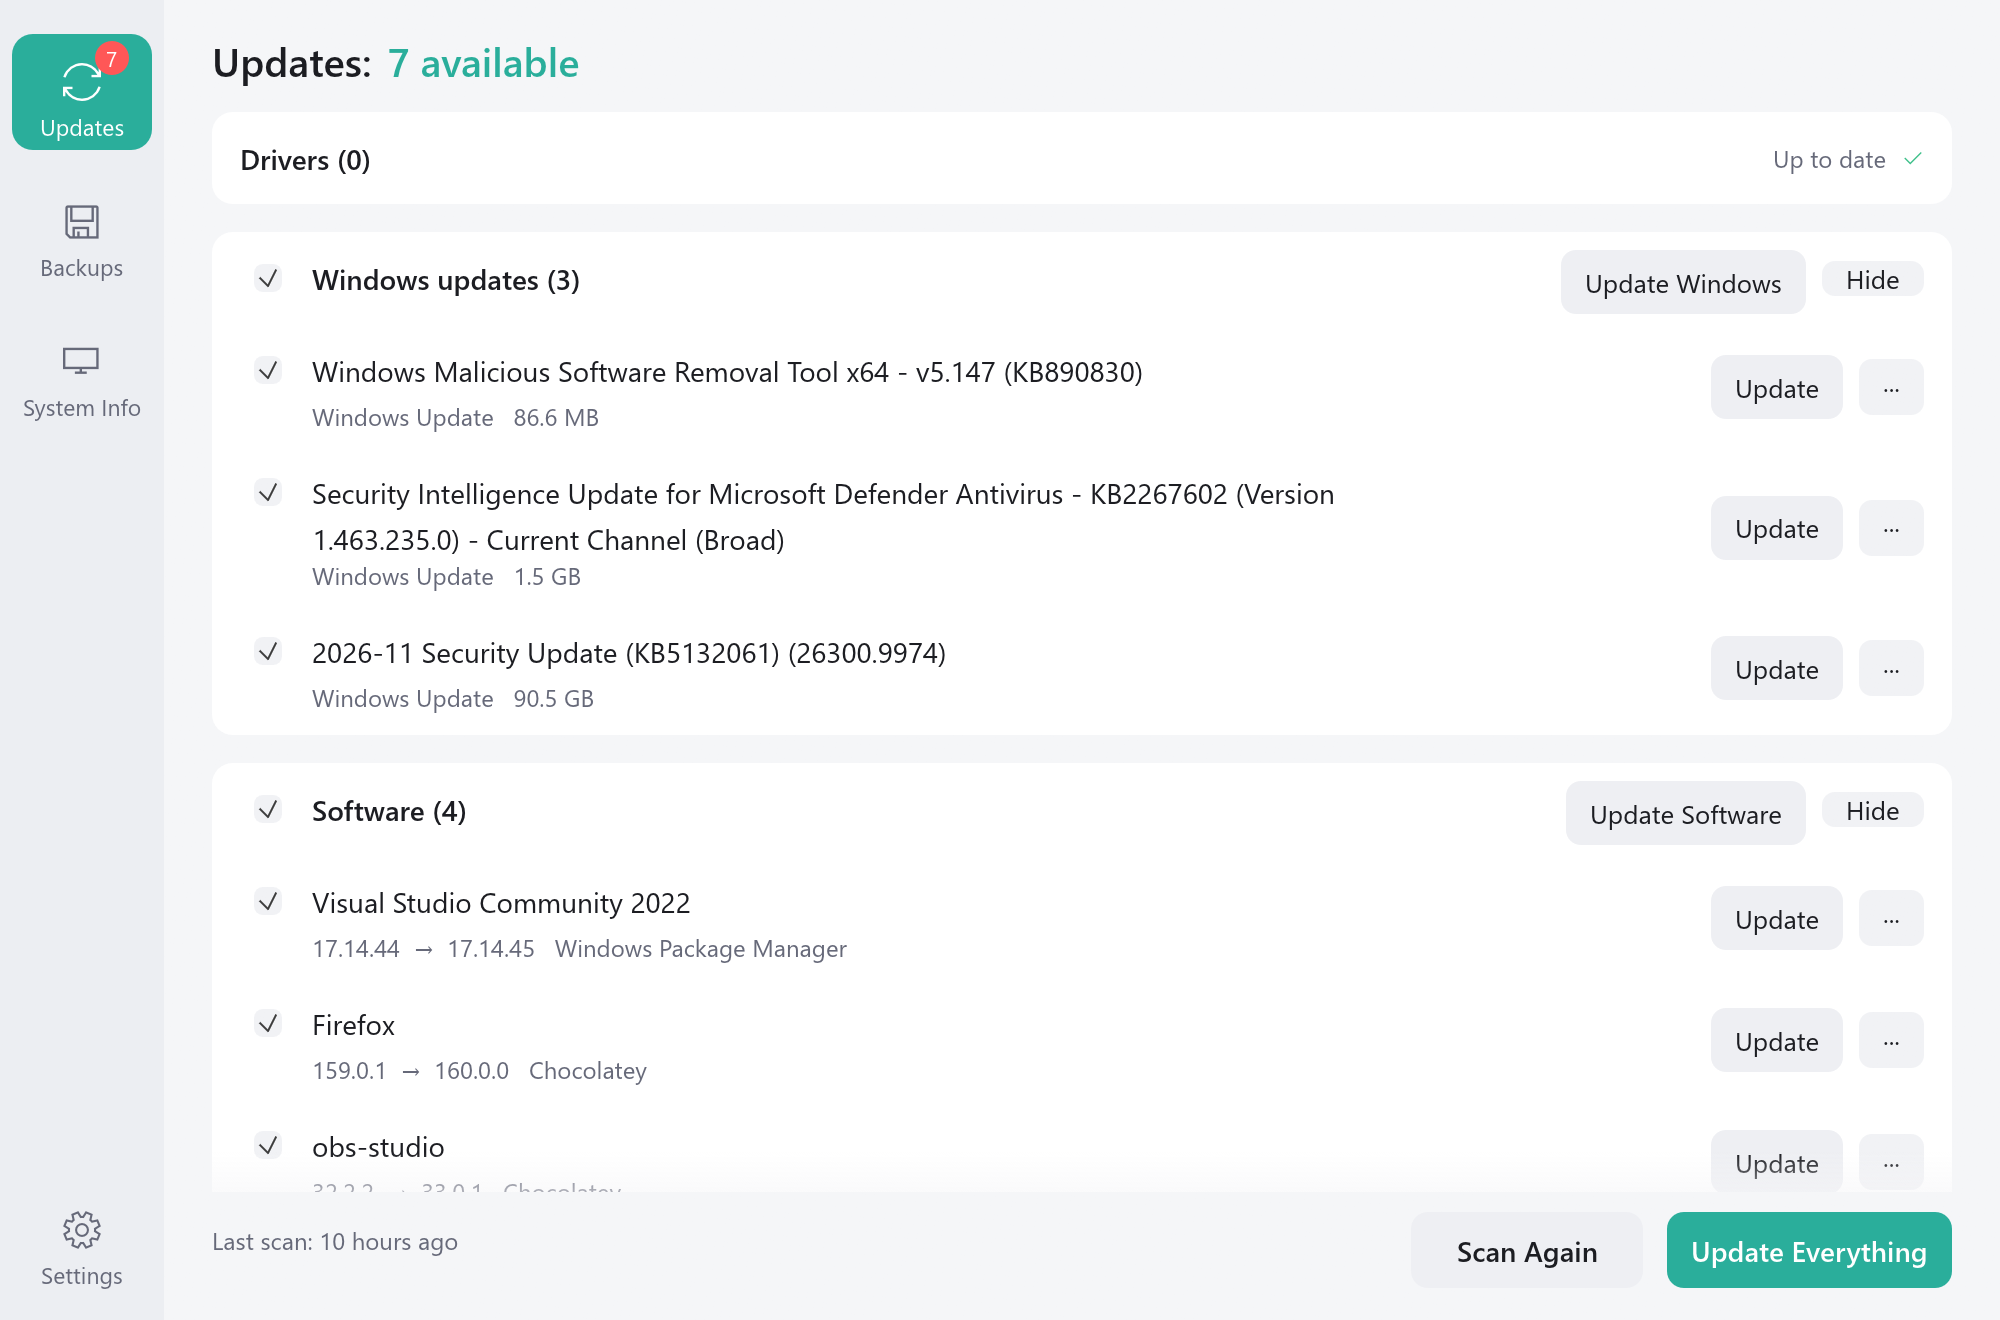
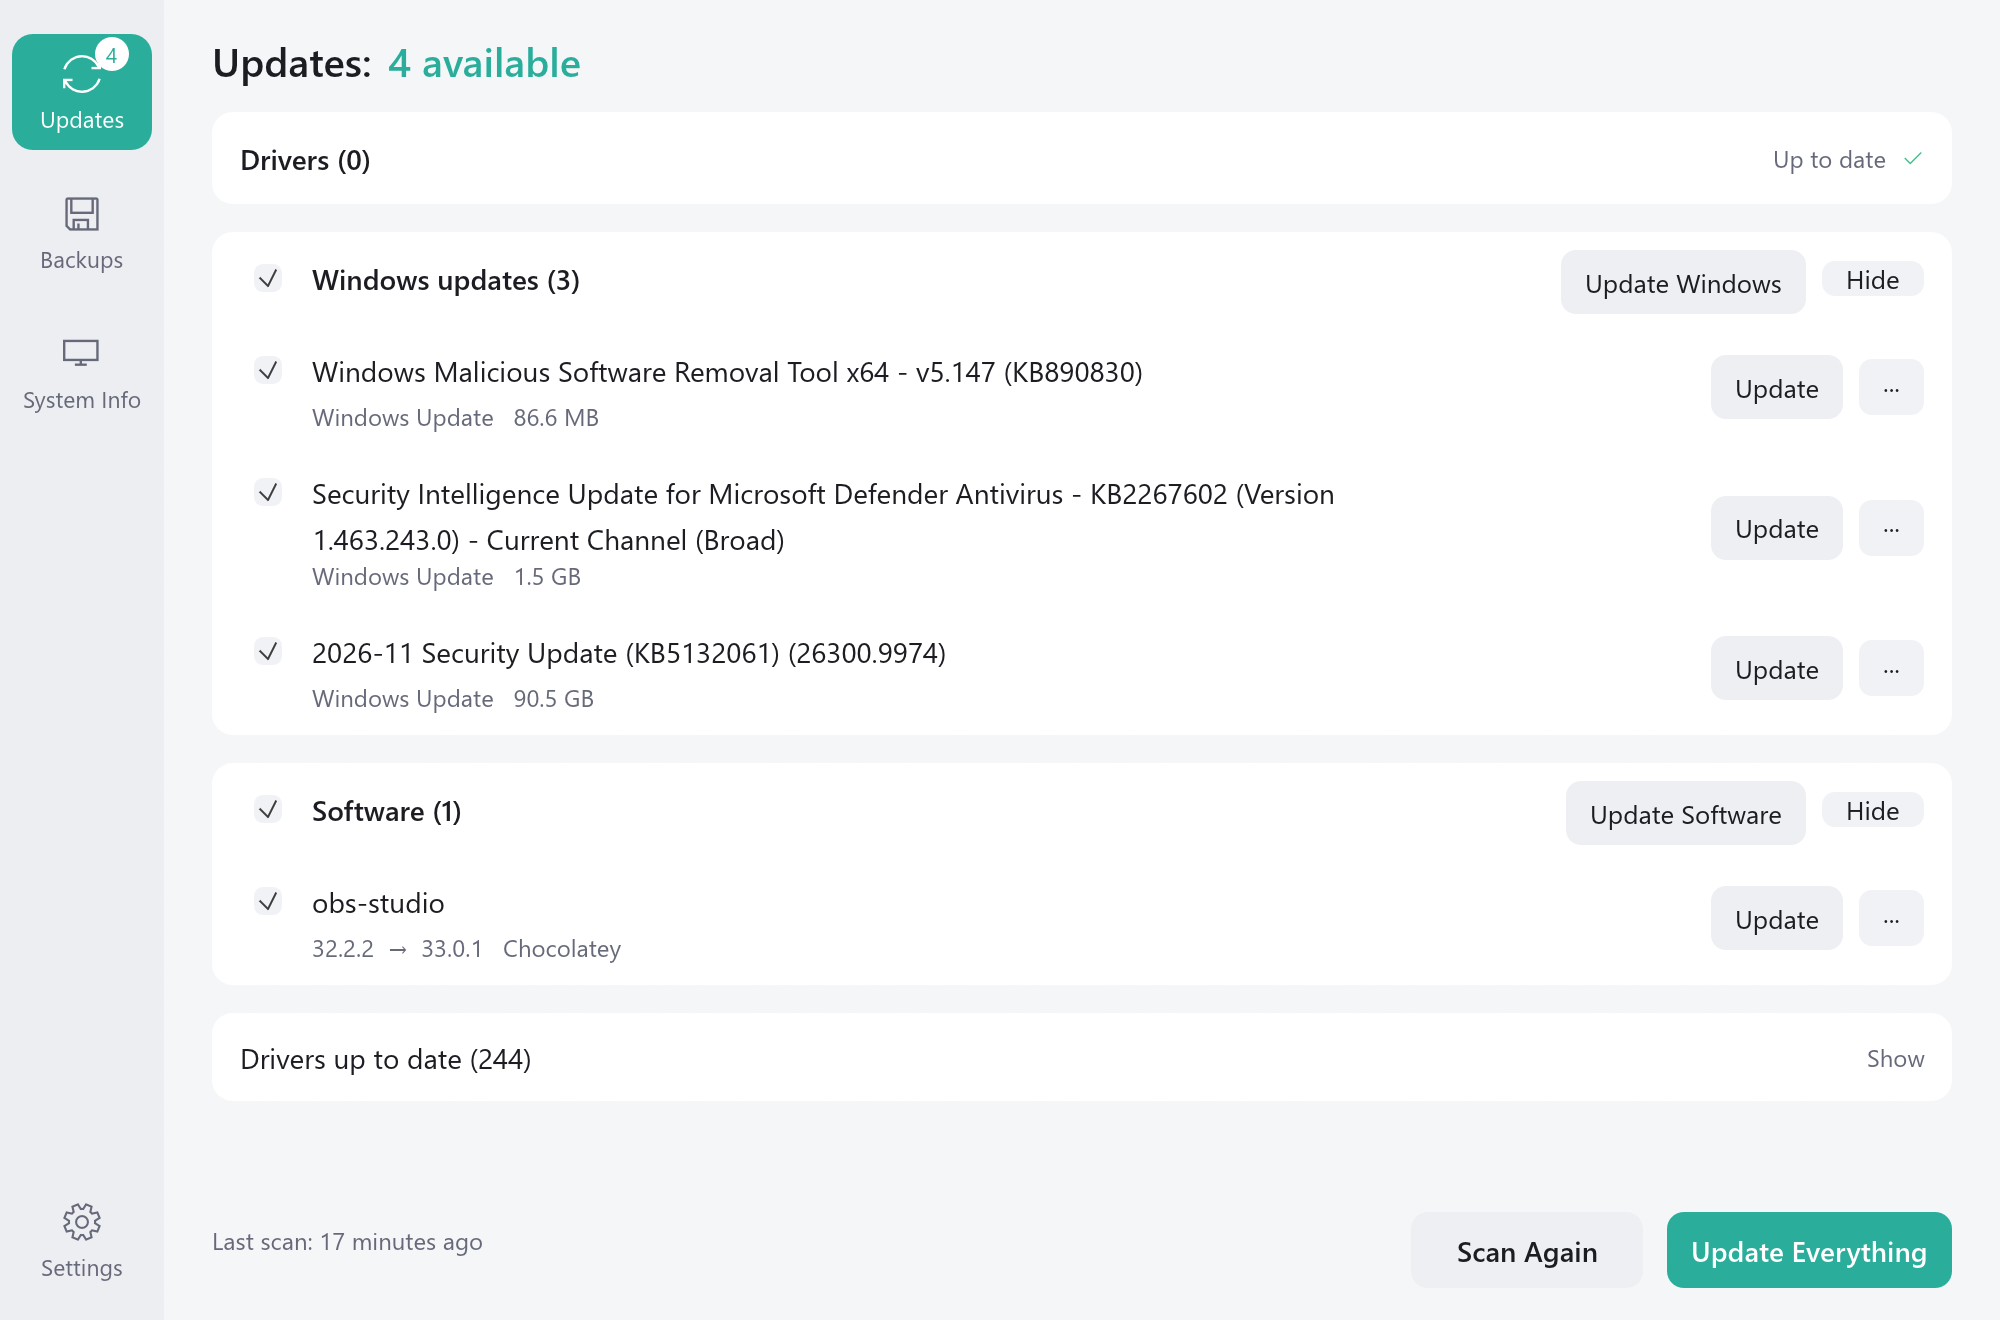
DriverKeep 1.0.13: scan on open setting, accent count badge, centered sidebar, Model header, new screenshots

diff --git a/src/ui.rs b/src/ui.rs
@@ -299,8 +299,9 @@ impl App {
         app.refresh_devices(&cc.egui_ctx);
         app.refresh_system(&cc.egui_ctx);
         app.refresh_tools(&cc.egui_ctx);
-        let overdue = app.options.screenshot.is_none() && app.settings.scan_overdue(chrono::Local::now());
-        if app.options.full_scan || app.options.resume.is_some() || overdue {
+        // Scheduled scans belong to the background helper; the window only searches on open if asked.
+        let on_open = app.options.screenshot.is_none() && app.settings.scan_on_open;
+        if app.options.full_scan || app.options.resume.is_some() || on_open {
             app.start_scan();
         }
         if app.options.page.as_deref() == Some("closing") {
@@ -1038,7 +1039,7 @@ impl App {
             ui.painter().rect_filled(inner, 10.0, p.hover);
         }
         let tint = if chosen { Color32::WHITE } else { p.soft };
-        let glyph_at = inner.center() - Vec2::new(0.0, 5.0);
+        let glyph_at = inner.center() - Vec2::new(0.0, 9.0);
         if spinning {
             // The two arrows turn around the middle while a job runs, and sit still otherwise.
             let galley = ui.painter().layout_no_wrap(glyph.to_string(), icon_font(19.0), tint);
@@ -1051,22 +1052,19 @@ impl App {
             ui.painter().text(glyph_at, Align2::CENTER_CENTER, glyph, icon_font(19.0), tint);
         }
         ui.painter().text(
-            inner.center() + Vec2::new(0.0, 17.0),
+            inner.center() + Vec2::new(0.0, 13.0),
             Align2::CENTER_CENTER,
             label,
             FontId::proportional(11.5),
             if chosen { Color32::WHITE } else { p.soft },
         );
         if count > 0 {
-            let center = inner.center() + Vec2::new(15.0, -17.0);
-            ui.painter().circle_filled(center, 8.5, CRITICAL);
-            ui.painter().text(
-                center,
-                Align2::CENTER_CENTER,
-                count.to_string(),
-                FontId::proportional(10.5),
-                Color32::WHITE,
-            );
+            let center = inner.center() + Vec2::new(15.0, -19.0);
+            // The accent color, like the "4 available" in the header. On the selected tab, which is
+            // already the accent color, it flips to a white circle with an accent number.
+            let (fill, ink) = if chosen { (Color32::WHITE, teal()) } else { (teal(), Color32::WHITE) };
+            ui.painter().circle_filled(center, 8.5, fill);
+            ui.painter().text(center, Align2::CENTER_CENTER, count.to_string(), FontId::proportional(10.5), ink);
         }
         if response.on_hover_cursor(egui::CursorIcon::PointingHand).clicked() {
             self.page = page;

diff --git a/src/ui/system_page.rs b/src/ui/system_page.rs
@@ -13,8 +13,10 @@ impl App {
         let (now, past, needs) = self.counts();
         ui.horizontal(|ui| {
             let name = self.system.as_ref().map(|s| s.computer.clone()).unwrap_or_default();
-            let title = if name.is_empty() { "System".to_string() } else { name };
-            ui.label(RichText::new(title).font(bold(20.0)));
+            // Same look as "Updates: 4 available": a label, then the value in the accent color.
+            ui.label(RichText::new("Model:").font(bold(20.0)));
+            let model = if name.is_empty() { "Reading…".to_string() } else { name };
+            ui.label(RichText::new(model).font(bold(20.0)).color(teal()));
             ui.with_layout(Layout::right_to_left(Align::Center), |ui| {
                 if secondary(ui, "Save as…", !self.devices.is_empty()) {
                     self.save_list();

diff --git a/src/system.rs b/src/system.rs
@@ -538,6 +538,8 @@ pub struct Settings {
     pub silent_windows: bool,
     pub silent_software: bool,
     pub scan_at_startup: bool,
+    /// Search as soon as the window opens. Off, it opens to the Scan button.
+    pub scan_on_open: bool,
     pub notify: bool,
     pub silent_install: bool,
     pub install_from: u32,
@@ -589,6 +591,7 @@ impl Default for Settings {
             silent_windows: false,
             silent_software: false,
             scan_at_startup: false,
+            scan_on_open: false,
             notify: true,
             silent_install: false,
             install_from: 1,

diff --git a/src/ui/settings_page.rs b/src/ui/settings_page.rs
@@ -349,6 +349,9 @@ impl App {
         setting(ui, ICON_SCAN, "Scan when the helper starts", "One background scan each time your PC starts.", |ui| {
             *changed |= toggle(ui, &mut s.scan_at_startup);
         });
+        setting(ui, ICON_SCAN, "Scan when DriverKeep opens", "Off, it opens to the Scan button and waits for you.", |ui| {
+            *changed |= toggle(ui, &mut s.scan_on_open);
+        });
     }
 
     fn installing_tab(&mut self, ui: &mut egui::Ui, changed: &mut bool) {
